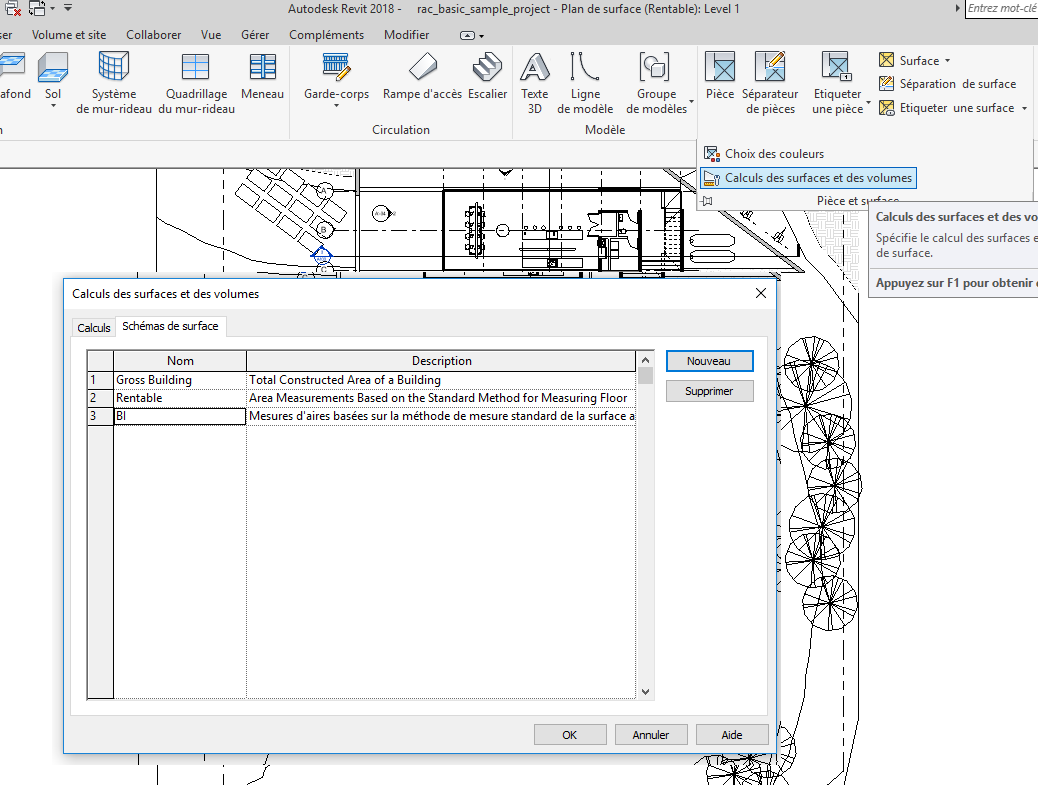
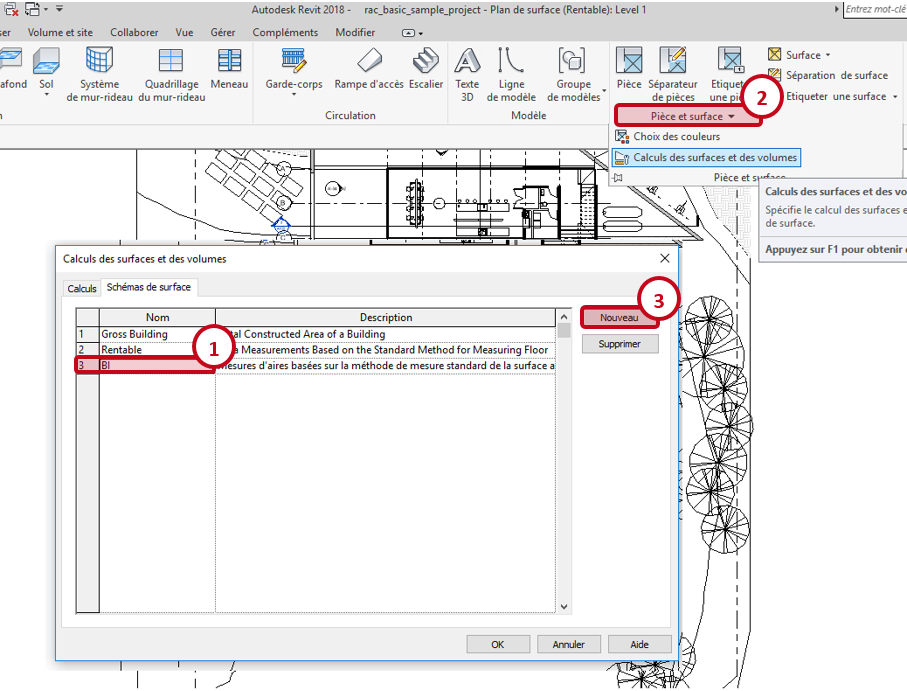
maj surfaces

diff --git a/categories/architecte/surfaces.md b/categories/architecte/surfaces.md
@@ -1,5 +1,15 @@
 Les Surface Hors Œuvre Brut \(SHOB\), Surface Hors Œuvre Nette \(SHON\) et Surface de Plancher \(SDP\) sont calculées en additionnant les différents types de surfaces du projet. De plus, la représentation des surfaces de parkings extérieurs est attendue.
 
+{% if logiciel == "Revit" %}
+
+####Préparation
+
+Avant la création d'un plan de surfaces, créer un type de plan de surfaces (l'appeler BI par exemple (1) ), et s'assurer que tous les plans de surfaces crées soient de ce type. Pour créer un nouveau type de plan de surfaces, utiliser la fonctionalité Calculs des surfaces et des volumes dans l'onglet Pièces et surfaces (2), puis cliquer sur Nouveau (3) comme dans l'image suivante: 
+
+![Plan de surface](/02_Modelisation/02_architecte/images/SURFACE_03.PNG)
+
+{% endif %}
+
 #### Modélisation
 
 {% if logiciel == "Revit" %}
@@ -7,10 +17,6 @@ Les Surface Hors Œuvre Brut \(SHOB\), Surface Hors Œuvre Nette \(SHON\) et Sur
 L’ensemble de ces surfaces SHOB/SHON/SDP est représenté à l’aide d’un unique plan de surface par niveau :
 
 ![Plan de surface](/02_Modelisation/02_architecte/images/SURFACE_01.PNG)
-
-Avant la création d'un plan de surfaces, créer un type de plan de surfaces (l'appeler BI par exemple), et s'assurer que tous les plans de surfaces crées soient de ce type. pour créer un nouveau type de plan de surfaces, utiliser la fonctionalité Calculs des surfaces et des volumes, comme dans l'image suivante: 
-
-![Plan de surface](/02_Modelisation/02_architecte/images/SURFACE_03.PNG)
 
 Les surfaces modélisées doivent couvrir l'ensemble de l'emprise du projet, à tout les niveaux. Le niveau N00 (Rez-De-Chaussé) doit également contenir les surfaces extérieures au bâtiment lui-même (VRD, parking extérieur, ...).
 
@@ -22,10 +28,6 @@ Chaque surface dessinée dans ces plans doit avoir les propriétés suivantes :
 | Commentaire | Voir [« Types de surfaces »](#types_surface) ci-dessous| Cette propriété indique la destination des surfaces réalisées. |
 
 Si un même niveau contient des surfaces ayant des usages différents (par exemple, surface de plancher de commerce et de logement), chaque usage doit être réprésenté par une surface distincte.
-
-#### Types de surface{#types_surface}
-
-{% include "/00_Referentiel/NomDesProduits.md"  %}
 
 {% elif logiciel == "ArchiCAD" %}
 
@@ -87,3 +89,7 @@ Les surfaces doivent être nommée de la façon suivante :
 #### Noms des surfaces{#nom_surface}
 
 {% include "/00_Referentiel/NomDesSurfaces.md"  %}
+
+#### Types de surface{#types_surface}
+
+{% include "/00_Referentiel/NomDesProduits.md" %}
